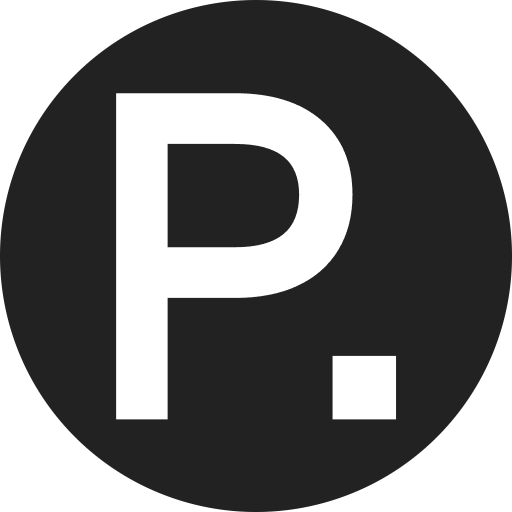
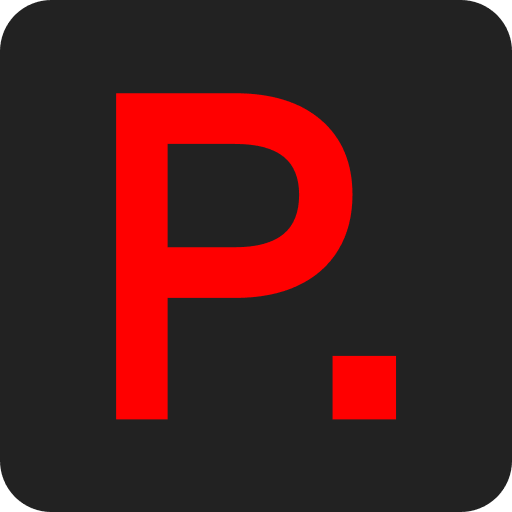
feat: update favico

diff --git a/app/page.tsx b/app/page.tsx
@@ -33,6 +33,9 @@ export default function Home() {
           <span className="text-red-500">
             Find <span className="text-white">and</span> Fix
           </span>
+          <h1>
+            Prefl<sup className="text-red-500">.run</sup>
+          </h1>
           <br className="hidden md:block" />
           critical issues before they fly on production
         </motion.h1>
